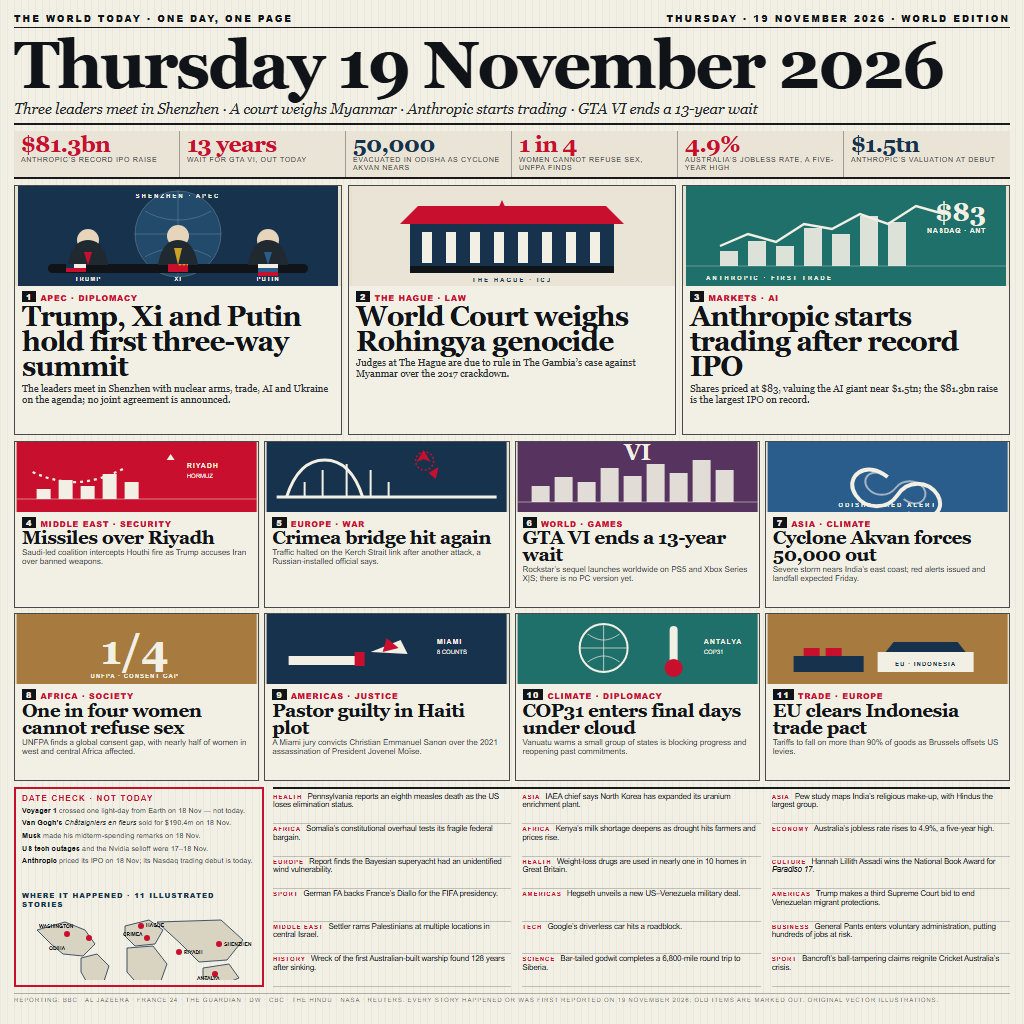
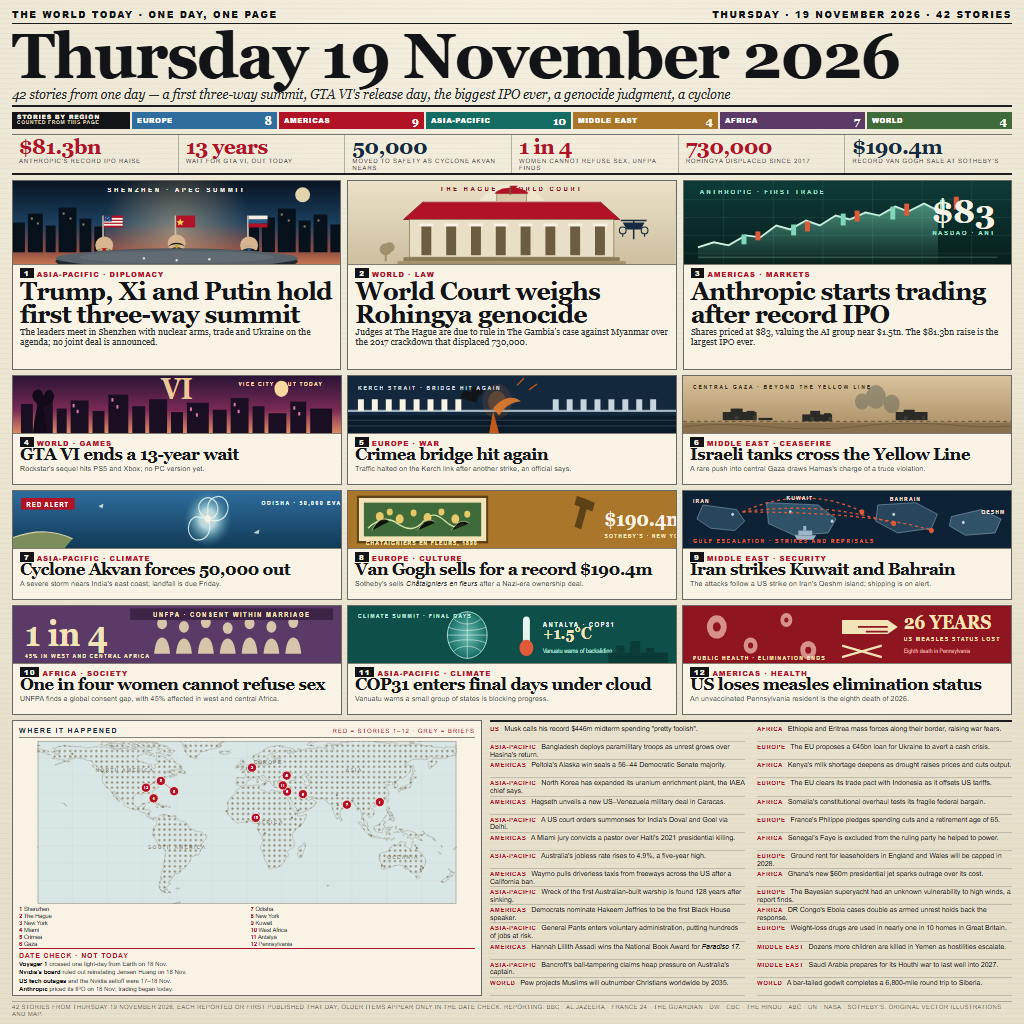
Expand to 42-story front page with world map

diff --git a/README.md b/README.md
@@ -4,7 +4,7 @@
 ![rank](https://make.fun/badge/news-image-20261119/sondero-ai/news-image-20261119/rank.svg)
 ![reward](https://make.fun/badge/news-image-20261119/sondero-ai/news-image-20261119/reward.svg)
 
-A one-page broadsheet that sums up the world news of Thursday, 19 November 2026: the first Trump–Xi–Putin trilateral summit, the ICJ's Rohingya genocide ruling, Anthropic's $1.5 trillion Nasdaq debut, missiles over Riyadh, the Crimea bridge strike, and the day's other stories, each with a short label a reader can follow.
+A 42-story broadsheet that sums up the world news of Thursday, 19 November 2026: the first Trump–Xi–Putin three-way summit, the ICJ's Rohingya genocide ruling, Anthropic's record $81.3bn IPO, GTA VI's launch after 13 years, Cyclone Akvan, the Gulf escalation, and the day's other stories, each with a short label a reader can follow.
 
 Entry for the [make.fun bounty news-image-20261119](https://make.fun/bounty/news-image-20261119).
 
